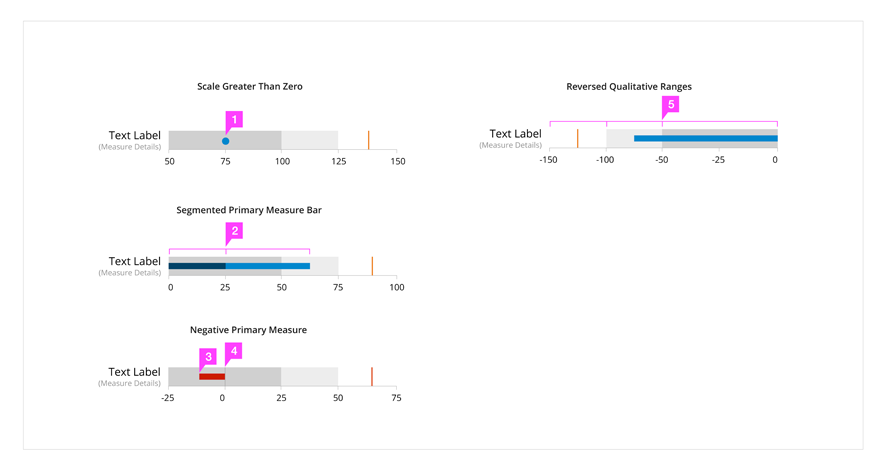
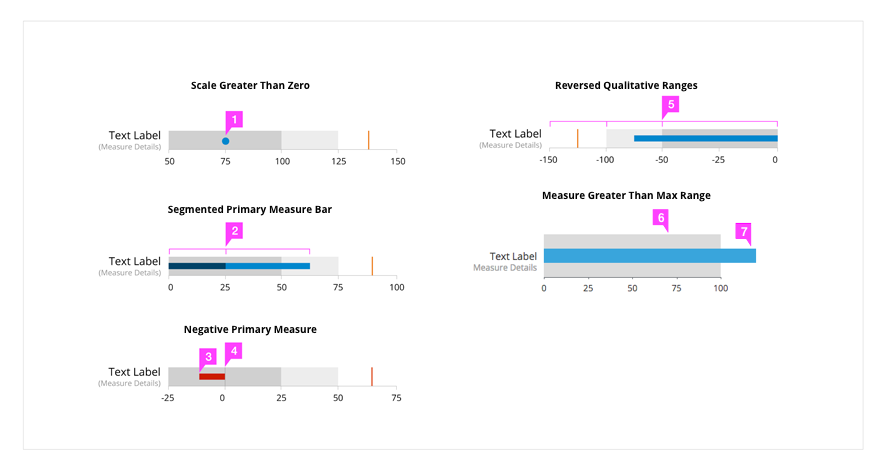
Updating the bullet chart design pattern

diff --git a/pattern-library/data-visualization/bullet-chart/design/design.md b/pattern-library/data-visualization/bullet-chart/design/design.md
@@ -56,6 +56,14 @@ Jump to [Standard Bullet Chart](#standard-bullet-chart), [Segmented Primary Meas
 
 1. **Primary Measure Dot:** Display the primary measure as a dot when the scale starts at a value greater than zero.
 
+### Measure Greater Than Max Range
+
+![Image of bullet chart greater than max callout](img/greater-than-max-callout.png)
+
+1. **Primary Measure Bar:** Display the primary measure bar, which can optionally be segmented.
+
+2. **Single Qualitative Range Bar:** Display the range bar, which represents the min and max values.
+
 ## Horizontal Group
 
 ![Image of bullet chart horizontal group callout](img/grouped-horizontal-bullet-chart-callout.png)
